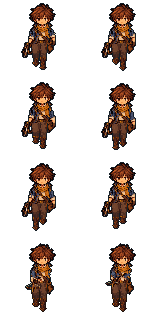
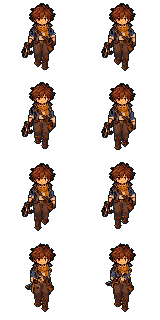
Move Kit's front walking legs toward screen right

diff --git a/src/art/kit-actor.ts b/src/art/kit-actor.ts
@@ -10,7 +10,7 @@ import { ANKLE_HEIGHT, FOOT_HEEL, FOOT_TOE, footPoint, REFERENCE_FRAMES } from '
 // Register the independently drawn views at their own native waist. The left
 // profile's legs sit forward of the full seat; the other profile keeps its bind.
 const LOWER_ROOTS:Record<ActorDirection,Readonly<{x:number;y:number}>>={
-  front:{x:.5,y:-4},left:{x:-.5,y:-2},right:{x:-.5,y:-4},back:{x:-.5,y:-4},
+  front:{x:-1.5,y:-4},left:{x:-.5,y:-2},right:{x:-.5,y:-4},back:{x:-.5,y:-4},
 };
 const CARRY_PITCH=-65*Math.PI/180;
 const lowerRoot=(pose:ReferencePose)=>({x:(pose.left.hip.x+pose.right.hip.x)/2,y:(pose.left.hip.y+pose.right.hip.y)/2});

diff --git a/AGENTS.md b/AGENTS.md
@@ -53,4 +53,4 @@ The reference rig accepts explicit `RigProportions` with independent mannequin/N
 Nell's native jacket side panels are registered torso spans, not moving sleeves. Preserve the flared front hem, back shoulder joins and directional coat tails alongside the central bib, with the same hip offset and arm occlusion. Her trouser legs extend up into the waist through fixed upper rings and progressively follow the leg below the hips. The seat and both thighs share a continuous projected fabric field; do not reintroduce capped limb cylinders or a UV restart at the hips. Preserve the fuller knee/boot contours and continuous connection in all views. Register sleeve material patches per direction, sampling actual red fabric (especially in the left profile). Keep the accepted proportions intact when repairing clothing.
 
 
-Kit uses `KIT_PROPORTIONS` and `src/art/kit-actor.ts`: 10-pixel legs, 8/6.5-pixel arms, 70% feet and a 26-pixel stride, with the complete lower body registered per native view: front (0.5, -4), left (-0.5, -2), right/back (-0.5, -4). Pass the direction to his pose/frame helpers so joints, floor guides and exports agree. Keep the left profile’s rear seat fullness while its legs move forward; use a native projected torso field to avoid stretching jacket shadows into a black back patch. Preserve his native face/expression, scarf and rolled sleeve pixels; neither profile is mirrored. Run `node scripts/export-kit-animation.mjs` to regenerate all eight poses from his idle art, without reading old animation pages. Native garment articulation is shared with Orrin in `src/art/actor-garment.ts`; the extracted helper must preserve Orrin’s accepted pixels. Kit’s right hand carries the crossbow, while a separate satchel stays at his left hip. His attack raises the crossbow with the left hand supporting its stock, using spatial two-bone arm IK and two fixed flat feet. Round backing retains arm volume when foreshortened; aiming exposes the carved bow span with native wood samples. Animation includes Kit, his independent proportions, the crossbow reference and the satchel visibility/export control. All three animated heroes use the shared runtime distance player. Keep Nell/Orrin’s accepted PNG bytes unchanged. See `assets/characters/kit-rig.md`.
+Kit uses `KIT_PROPORTIONS` and `src/art/kit-actor.ts`: 10-pixel legs, 8/6.5-pixel arms, 70% feet and a 26-pixel stride, with the complete lower body registered per native view: front (-1.5, -4), left (-0.5, -2), right/back (-0.5, -4). Pass the direction to his pose/frame helpers so joints, floor guides and exports agree. Keep the left profile’s rear seat fullness while its legs move forward; use a native projected torso field to avoid stretching jacket shadows into a black back patch. Preserve his native face/expression, scarf and rolled sleeve pixels; neither profile is mirrored. Run `node scripts/export-kit-animation.mjs` to regenerate all eight poses from his idle art, without reading old animation pages. Native garment articulation is shared with Orrin in `src/art/actor-garment.ts`; the extracted helper must preserve Orrin’s accepted pixels. Kit’s right hand carries the crossbow, while a separate satchel stays at his left hip. His attack raises the crossbow with the left hand supporting its stock, using spatial two-bone arm IK and two fixed flat feet. Round backing retains arm volume when foreshortened; aiming exposes the carved bow span with native wood samples. Animation includes Kit, his independent proportions, the crossbow reference and the satchel visibility/export control. All three animated heroes use the shared runtime distance player. Keep Nell/Orrin’s accepted PNG bytes unchanged. See `assets/characters/kit-rig.md`.

diff --git a/assets/characters/kit-rig.md b/assets/characters/kit-rig.md
@@ -2,7 +2,7 @@
 
 `src/art/kit-actor.ts` binds the accepted four native idle actors to the layered gait. The original idle actors and portrait are unchanged. Face, hair, scarf, shirt, rolled sleeves, gloves and satchel retain native RGB pixels and native dimensions. Profiles are independent artwork; none is mirrored.
 
-`KIT_PROPORTIONS` gives him 10-pixel leg bones, a 20.4-pixel resting hip height, 0.8-pixel rise, 3.5-pixel hip spacing, a 26-pixel stride, 70% feet, 9-pixel shoulder spacing and 8/6.5-pixel arm bones. Register the complete lower skeleton, including every foot contact landmark, against the independent native views: front (0.5, -4), left (-0.5, -2), right/back (-0.5, -4). Pass the direction to `kitFrame` / `kitAttackPose`; Animation uses the same registration for its floor marks and exported poses. The projected fabric field follows that root through the seat and upper legs. Keep the left profile’s rear seat fullness when shifting its legs forward. Shaped boot shafts and shoes follow the heel/sole/toe contacts. No runtime frame fitting or mirroring is used.
+`KIT_PROPORTIONS` gives him 10-pixel leg bones, a 20.4-pixel resting hip height, 0.8-pixel rise, 3.5-pixel hip spacing, a 26-pixel stride, 70% feet, 9-pixel shoulder spacing and 8/6.5-pixel arm bones. Register the complete lower skeleton, including every foot contact landmark, against the independent native views: front (-1.5, -4), left (-0.5, -2), right/back (-0.5, -4). Pass the direction to `kitFrame` / `kitAttackPose`; Animation uses the same registration for its floor marks and exported poses. The projected fabric field follows that root through the seat and upper legs. Keep the left profile’s rear seat fullness when shifting its legs forward. Shaped boot shafts and shoes follow the heel/sole/toe contacts. No runtime frame fitting or mirroring is used.
 
 Each arm has its own directional source spans and shoulder/elbow/wrist/grip registration. `actor-garment.ts` articulates those native pixels with the same helper used by Orrin. Rounded textured backing retains the sleeve/forearm/glove cross-section in foreshortened poses. Both aiming hands and the bow share the registered right-grip socket; do not apply separate idle-hand offsets to the support hand. Map the torso fill in the native projected field rather than wrapping a small jacket swatch around the body; that swatch magnified a dark row into a black patch on his back. The torso mask excludes idle arms, weapon, bag and trouser pixels; native scarf and belt remain fixed to the body. The head keeps its original expression and only follows the small hip rise.
 
